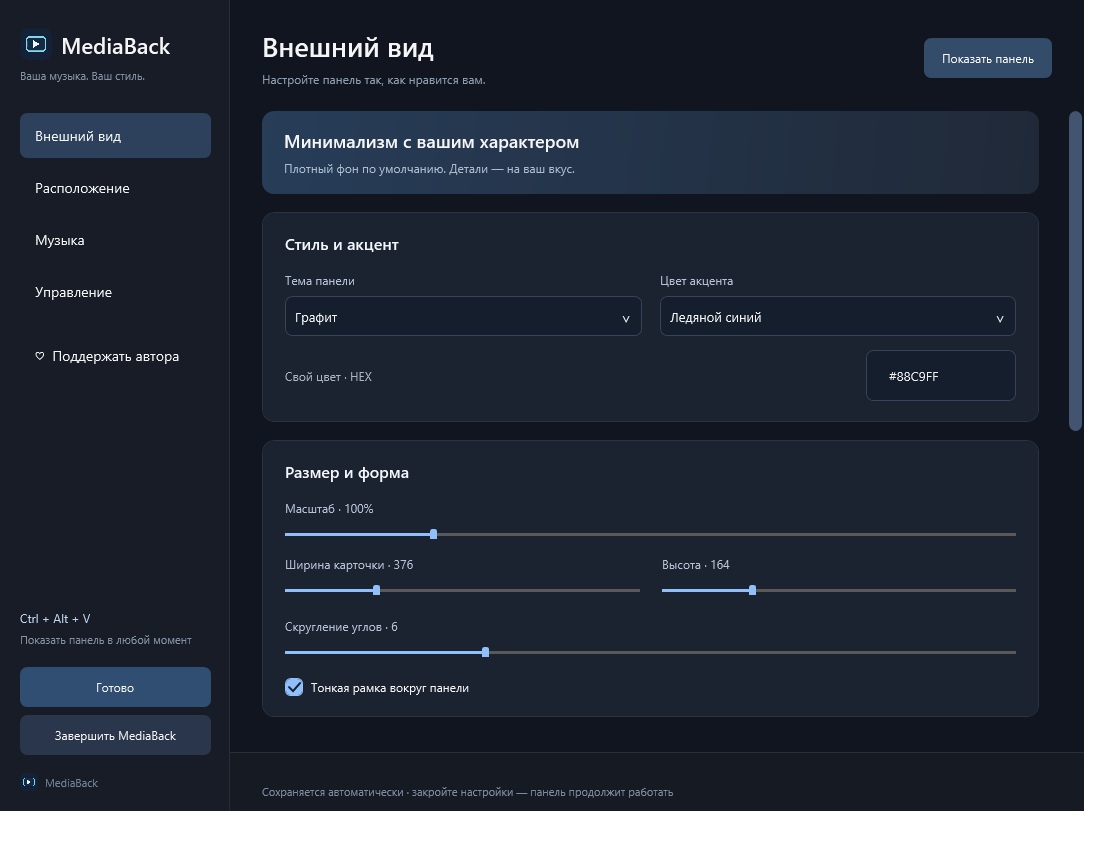
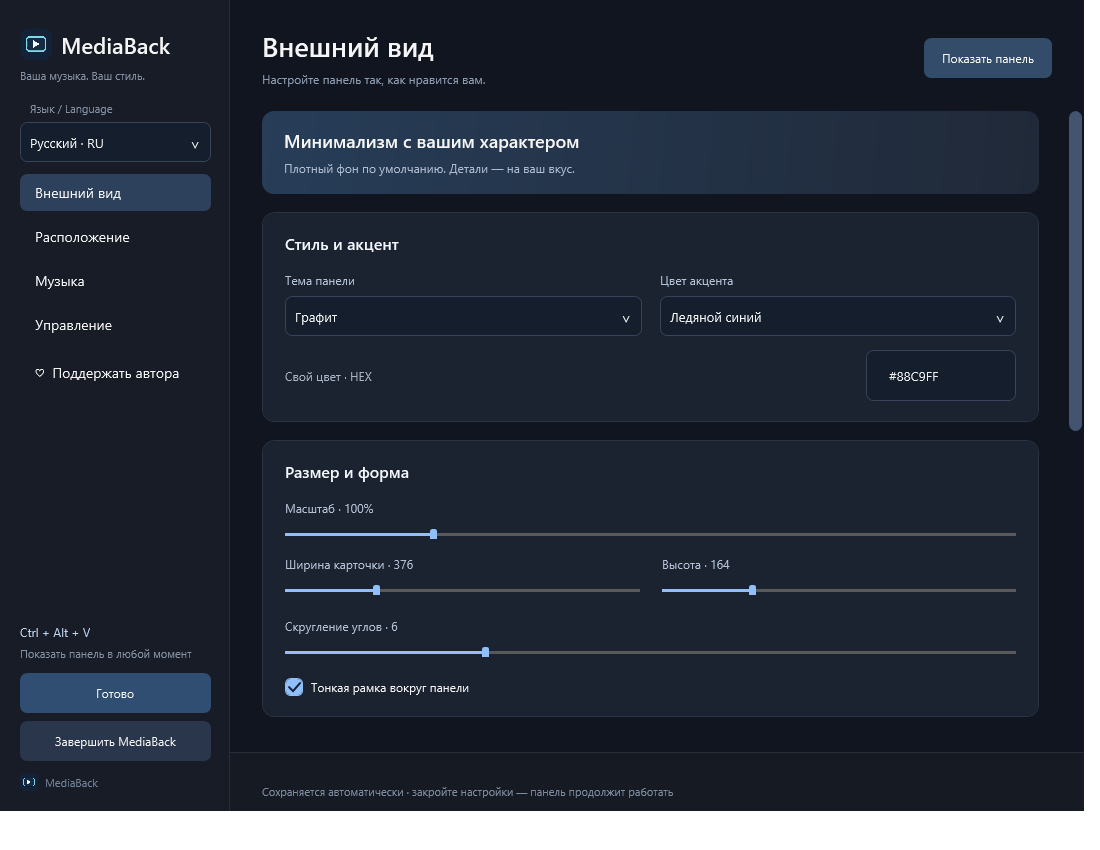
Prepare 0.4.2 release guide in RU and EN

Changed region(s): [[0.0, 0.1224, 0.2164, 0.4588], [0.0, 0.7035, 0.1855, 0.9176]]

diff --git a/README.md b/README.md
@@ -2,65 +2,132 @@
 
 # MediaBack
 
-**Громкость и музыка снова под рукой.** Бесплатная панель для Windows 11 в духе Windows 10: переключайте треки, меняйте громкость и настройте внешний вид под себя.
+**Громкость и музыка снова под рукой. / Your volume and music, back within reach.**
 
-**Your volume and music, back within reach.** A free Windows 10-style volume and media flyout for **Windows 11 x64**. Control compatible media players, switch tracks without leaving a borderless game, and customize the position, themes, background and hotkeys. Close the settings and MediaBack keeps running in the background, with an optional tray icon. Requires a player that supports Windows Media Session; exclusive fullscreen support is limited.
+Бесплатная панель громкости и музыки в стиле Windows 10 для **Windows 11 x64**. Настройте один раз — панель продолжит работать в фоне после закрытия настроек.
 
-### [↓ Скачать / Download MediaBack 0.4.1 beta — Windows 11 x64 · MSI](https://github.com/pmewax/MediaBack/releases/download/v0.4.1-beta/MediaBack-Setup.msi)
+A free Windows 10-style volume and media flyout for **Windows 11 x64**. Set it up once, close the settings, and keep your music controls within reach.
 
-[Все выпуски](https://github.com/pmewax/MediaBack/releases) · [♡ Поддержать автора](DONATIONS.md) · [Сообщить об ошибке](https://github.com/pmewax/MediaBack/issues)
+### [↓ Скачать / Download 0.4.2 beta · Windows 11 x64 · MSI](https://github.com/pmewax/MediaBack/releases/download/v0.4.2-beta/MediaBack-Setup.msi)
 
-![Панель громкости и музыки](overlay-preview.png)
+[Что нового / Release notes](https://github.com/pmewax/MediaBack/releases/tag/v0.4.2-beta) · [Все выпуски / All releases](https://github.com/pmewax/MediaBack/releases) · [♡ Поддержать / Support](DONATIONS.md) · [Ошибки / Issues](https://github.com/pmewax/MediaBack/issues)
 
-## Что умеет
+![MediaBack volume and media flyout](overlay-preview.png)
 
-- Показывает трек, исполнителя, обложку и кнопки плеера из Windows Media Session.
-- Позволяет закрепить музыкальный источник, чтобы игра не забирала управление.
-- Появляется по клавишам громкости и поддерживаемым аппаратным регуляторам. Изменение ползунка в микшере Windows не вызывает панель.
-- Настраивает положение, монитор, масштаб, цвет, прозрачность, собственный фон и плавное скрытие.
-- Поддерживает собственные глобальные сочетания и выключатель каждой команды.
-- Работает после закрытия настроек, в том числе без значка в трее.
-- Показывает название сайта у браузерного источника, когда его удаётся определить. Функцию можно выключить.
+[Русский](#русский) · [English](#english)
 
-![Настройки MediaBack](settings-preview.png)
+## Русский
 
-## Установка и использование
+### Новое в 0.4.2
 
-1. Скачайте **MediaBack-Setup.msi** по кнопке выше. Автоматические архивы GitHub «Source code» содержат только материалы этой страницы.
-2. Откройте MSI, настройте панель и закройте настройки: MediaBack продолжит работать в фоне.
-3. Нажмите клавишу громкости или **Ctrl + Alt + V**, чтобы показать панель. Сочетания меняются в разделе «Управление».
-4. Для повторной настройки запустите **Пуск → MediaBack**. Кнопка «Завершить MediaBack» полностью останавливает программу.
+- **RU / EN:** мгновенная смена языка вверху бокового меню, с сохранением выбора. Переведены настройки, подсказки, трей, кадрирование и диалоги поддержки.
+- **Курсор в игре:** стрелка при наведении на панель, если игра скрыла свободный указатель. Для игр с заблокированной мышью добавлен режим **Ctrl + Alt + M**. Панель временно получает фокус; **Esc**, повторное сочетание или щелчок снаружи завершают режим.
+- **Плавный индикатор громкости:** короткое сглаживание без задержки изменения звука. При перетаскивании ползунок следует за мышью напрямую. Плавность можно выключить.
+- **Аккуратнее настройки:** все пункты бокового меню доступны при минимальном размере окна.
 
-Установка для текущего пользователя: `%LOCALAPPDATA%\Programs\MediaBack`. .NET включён в пакет. MSI добавляет автозапуск при входе в Windows; его можно выключить в настройках приложения или Windows. Настройки сохраняются автоматически.
+### Возможности
 
-## Как вернуть стандартную панель Windows 11
+- Трек, исполнитель, обложка и кнопки управления из Windows Media Session.
+- Закрепление музыкального источника, чтобы игра не перехватывала управление плеером.
+- Показ по клавишам громкости и поддерживаемым аппаратным регуляторам. Ползунок микшера Windows не вызывает панель.
+- Положение, монитор, масштаб, темы, акцент, прозрачность, собственный фон с кадрированием и плавное скрытие.
+- Свои глобальные сочетания, выключатель всех быстрых команд и каждой команды отдельно.
+- Работа в фоне, автозапуск и необязательный значок в трее.
+- Название сайта у браузерного источника, когда его удаётся определить; отображение можно отключить.
+
+![Настройки MediaBack на русском](settings-preview.png)
+
+### Установка и обновление
+
+1. Скачайте **MediaBack-Setup.msi** по кнопке выше. Архивы GitHub **Source code** содержат материалы репозитория, а не приложение.
+2. Запустите MSI. Для обновления с 0.4.1 используйте новый MSI: сохранение настроек проверено.
+3. Выберите язык и внешний вид, затем закройте настройки — панель продолжит работать.
+4. Клавиша громкости или **Ctrl + Alt + V** показывает обычную панель без переключения активного окна.
+5. Для повторной настройки: **Пуск → MediaBack**. Для полной остановки: **Завершить MediaBack** в настройках.
+
+Установка для текущего пользователя: `%LOCALAPPDATA%\Programs\MediaBack`. .NET включён в пакет. MSI добавляет автозапуск при входе в Windows; его можно выключить в приложении или Windows. Настройки сохраняются автоматически. Обновления скачиваются вручную из [Releases](https://github.com/pmewax/MediaBack/releases).
+
+### Если игра скрыла курсор
+
+Если указатель свободно двигается, наведите его на панель. Если игра удерживает мышь, нажмите **Ctrl + Alt + M**, переключите трек и нажмите **Esc**, чтобы вернуться к игре. Сочетания меняются или отключаются в **Управление → Быстрые команды**. Курсор и сглаживание настраиваются в **Управление → Курсор и игры**.
+
+Используйте оконный режим или без рамки. Поведение зависит от игры: режим проверен с тестовым окном со скрытым курсором; прямая проверка в Roblox не проводилась. Эксклюзивный полный экран и защищённые окна могут ограничивать работу панели. Приложение не внедряется в игры.
+
+### Как вернуть стандартную панель Windows 11
 
 **Параметры → Приложения → Установленные приложения → MediaBack → Удалить**, либо **Пуск → MediaBack → Удалить MediaBack**.
 
-Удаление завершает процесс и убирает приложение, ярлыки и автозапуск. MediaBack не заменяет системные файлы Windows: стандартная обработка клавиш возвращается после завершения приложения. Пользовательские настройки и фоны остаются в `%LOCALAPPDATA%\MediaBack`; при необходимости удалите эту папку отдельно.
+Удаление останавливает приложение и убирает его файлы, ярлыки и автозапуск. Системные файлы Windows не заменяются: стандартная обработка клавиш возвращается после завершения MediaBack. Настройки и фоны остаются в `%LOCALAPPDATA%\MediaBack`; при необходимости удалите эту папку отдельно.
 
-## Совместимость и ограничения бета-версии
+### Совместимость, безопасность и приватность
 
-Windows 11 **x64**. Плеер должен предоставлять Windows Media Session: один лишь звук не означает наличие управляемой медиасессии. Совместимость зависит от приложения и его настроек. Название сайта у фоновой вкладки определяется не всегда.
+Плеер должен поддерживать **Windows Media Session**: одного воспроизведения звука недостаточно. Совместимость зависит от приложения; название сайта определяется не всегда. Не проверены все гарнитуры, регуляторы, конфигурации мониторов и игры. Это бета-версия.
 
-Для игр рекомендуется оконный режим без рамки. Эксклюзивный полный экран, защищённые окна и некоторые драйверы устройств могут ограничивать показ панели или перехват медиаклавиш. Все модели гарнитур и регуляторов не проверены.
+MSI **не подписан сертификатом издателя**. Windows может показать предупреждение: проверяйте источник и SHA-256 из релиза, не отключайте защиту Windows. 169 автоматических проверок прошли; Microsoft Defender не обнаружил угроз в финальном MSI. Это не заменяет независимый аудит. [Проверки и ограничения](SECURITY.md).
 
-Программа потребляет память и процессорное время; нулевая нагрузка не обещается. Обновления скачиваются вручную из [Releases](https://github.com/pmewax/MediaBack/releases).
+Приложение работает локально, без учётной записи, рекламы, телеметрии и передачи музыки на сервер. Использует Windows Media Session и Core Audio. [Приватность](PRIVACY.md). Программа использует память и процессорное время; нулевая нагрузка не обещается.
 
-## Безопасность и приватность
+### ♡ Поддержать автора
 
-MSI **пока не имеет цифровой подписи издателя**; Windows может показать предупреждение о неизвестном издателе. Проверяйте источник и контрольную сумму из релиза. Не отключайте защиту Windows ради установки.
+Все функции бесплатны. Если MediaBack помогает каждый день, можно поддержать развитие добровольным донатом: **[монеты, сети и адреса →](DONATIONS.md)**. Те же адреса и QR доступны в настройках. Спасибо за поддержку, идеи и отзывы!
 
-Приложение работает локально: нет учётной записи, рекламы, телеметрии или загрузки музыки на сервер. Для панели используются Windows Media Session и Core Audio. [Подробнее о данных](PRIVACY.md) · [Проверки и ограничения](SECURITY.md).
+## English
 
-## ♡ Поддержать автора
+### What's new in 0.4.2
 
-Все функции бесплатны. Если MediaBack помогает каждый день, можно поддержать развитие добровольным донатом: **[монеты, сети и адреса →](DONATIONS.md)**. Те же адреса и QR доступны в настройках.
+- **RU / EN:** switch languages instantly at the top of the sidebar; your choice is saved. Settings, tooltips, tray menus, cropping and support dialogs are translated.
+- **In-game cursor:** an arrow appears over the flyout when a game hides a freely moving pointer. For games that lock the mouse, **Ctrl + Alt + M** temporarily activates the panel. **Esc**, the same shortcut or an outside click ends interaction mode.
+- **Smoother volume indicator:** a short visual transition with immediate audio changes. Direct slider dragging stays responsive. Smoothing can be disabled.
+- **Settings layout:** all sidebar entries remain accessible at the minimum window size.
 
-Спасибо за поддержку, идеи и сообщения об ошибках!
+### Features
 
-## Автор и права
+- Track title, artist, artwork and playback controls through Windows Media Session.
+- Pin a music source so another media session does not take over your controls.
+- Show the flyout using volume keys and supported hardware controls; the Windows volume mixer does not trigger it.
+- Customize position, monitor, scale, theme, accent, opacity, a cropped background image and fade-out.
+- Assign global shortcuts, enable or disable each command, or disable all quick commands.
+- Run in the background with optional startup and tray icon.
+- Display the website name for browser media when it can be identified; this is optional.
 
-Автор: [pmewax](https://github.com/pmewax). MediaBack распространяется как бесплатное приложение с закрытыми исходниками. Этот репозиторий содержит описание, изображения и установочные выпуски; исходного кода приложения здесь нет.
+![MediaBack settings in English](settings-en.png)
 
-[Условия использования](LICENSE.txt) · [Лицензии сторонних компонентов](THIRD-PARTY-NOTICES.txt). Неофициальный проект, не связан с Microsoft, Spotify, SoundCloud или другими упомянутыми сервисами. Изображения интерфейса используют демонстрационные данные.
+### Install or update
+
+1. Download **MediaBack-Setup.msi** using the link above. GitHub's automatic **Source code** archives contain repository materials, not the application.
+2. Run the MSI. Updating from 0.4.1 with existing settings has been tested.
+3. Choose **English · EN** at the top of the sidebar and customize the flyout. Closing settings keeps MediaBack running.
+4. Press a volume key or **Ctrl + Alt + V** to show the regular flyout without changing the active window.
+5. Reopen **Start → MediaBack** to configure it later. Use **Quit MediaBack** in settings to stop it completely.
+
+Installed for the current user in `%LOCALAPPDATA%\Programs\MediaBack`, with .NET included. The MSI enables startup at sign-in; you can disable this in MediaBack or Windows. Settings save automatically. Download updates manually from [Releases](https://github.com/pmewax/MediaBack/releases).
+
+### When a game hides the cursor
+
+If the pointer can move freely, hover over the flyout. If the game locks it, press **Ctrl + Alt + M**, use the media controls, then press **Esc** to return to the game. Change or disable bindings under **Controls → Quick commands**. Cursor and smoothing options are under **Controls → Cursor and games**.
+
+Use windowed or borderless mode. Compatibility depends on the game: interaction mode was tested with a hidden-cursor test window, not directly in Roblox. Exclusive fullscreen and protected windows can restrict the flyout. MediaBack does not inject into games.
+
+### Restore the Windows 11 flyout
+
+Uninstall through **Settings → Apps → Installed apps → MediaBack → Uninstall**, or **Start → MediaBack → Uninstall MediaBack**.
+
+Uninstalling stops the app and removes its program files, shortcuts and startup entry. Windows system files are not replaced; normal volume-key handling returns when MediaBack exits. Your settings and backgrounds remain in `%LOCALAPPDATA%\MediaBack`; remove that folder separately if desired.
+
+### Compatibility, security and privacy
+
+Requires **Windows 11 x64** and a player supporting **Windows Media Session**. Audio playback alone does not provide a controllable session. Website identification is not always possible. Not every headset, hardware dial, monitor configuration or game has been tested. This is a beta release.
+
+The MSI is **not digitally signed by a publisher certificate**. Windows may show a warning. Check the download source and release SHA-256; do not disable Windows protection. 169 automated checks passed and Microsoft Defender found no threats in the final MSI. This is not an independent security audit. [Checks and limitations](SECURITY.md).
+
+MediaBack works locally without an account, ads, telemetry or uploading music. It uses Windows Media Session and Core Audio. [Privacy](PRIVACY.md). It uses memory and CPU time; zero resource usage is not promised.
+
+### ♡ Support the author
+
+All features are free. If MediaBack makes your day a little easier, you can support its development voluntarily: **[coins, networks and addresses →](DONATIONS.md)**. The same addresses and QR codes are available in settings. Thank you for your support, ideas and feedback!
+
+## Автор и права / Author and rights
+
+By [pmewax](https://github.com/pmewax). Бесплатное приложение с закрытыми исходниками / freeware with closed source. This repository contains documentation, screenshots and installable releases; the application's source code is not included.
+
+[Условия / License](LICENSE.txt) · [Сторонние компоненты / Third-party notices](THIRD-PARTY-NOTICES.txt). Неофициальный проект / an unofficial project, not affiliated with Microsoft, Spotify, SoundCloud or other mentioned services. Screenshots use demonstration data.

diff --git a/SECURITY.md b/SECURITY.md
@@ -1,12 +1,29 @@
-# Проверки и безопасность — 0.4.1 beta
+# Проверки и безопасность / Checks and security — 0.4.2 beta
 
-- Финальная сборка приложения: .NET 10.0.13 / WPF, Windows x64, встроенный runtime.
-- 124 автоматические проверки приложения прошли без ошибок. Проверены настройки, выбор медиасессий, жизненный цикл окон, конфликты горячих клавиш, скрытие и восстановление панели, поддержка и переходы между окнами.
-- Все шесть отображаемых вариантов монеты/сети проверены независимым декодером QR; адреса совпадают с каталогом. Переводы и принадлежность кошельков не проверялись.
-- Системные файлы, игры и драйверы не модифицируются. Приложение работает с правами обычного пользователя.
-- Проверены таблицы финального MSI и совпадение файлов внутри его CAB с файлами сборки. Полная установка и удаление 0.4.1 заново не выполнялись; соответствующие сценарии проверялись на предыдущем установщике.
-- MSI не подписан сертификатом издателя. Контрольная сумма SHA-256 опубликована отдельным файлом в релизе.
+## Русский
 
-Результат проверки Microsoft Defender и SHA-256 финального MSI указаны в примечаниях релиза. Антивирусная проверка не гарантирует отсутствие всех возможных угроз или ошибок. Полного независимого аудита не проводилось.
+- Windows x64, WPF / .NET 10.0.13, runtime включён в установщик.
+- **169 автоматических проверок прошли, 0 ошибок.** Проверены настройки, медиасессии, горячие клавиши и их конфликты, скрытие и восстановление панели, поддержка, локализация, курсор и сглаживание громкости.
+- Проверены полнота **221 ключа RU/EN**, совпадение параметров и переключение языка в интерфейсе.
+- Курсор проверен с отдельным тестовым окном, которое скрывает указатель. Проверены явная активация панели, захват мыши, Esc, возврат фокуса и переход в другое окно. Прямая проверка в Roblox не проводилась; совместимость зависит от игры.
+- Проверены таблицы MSI, а также SHA-256 файлов внутри CAB. **Обновление с 0.4.1 до 0.4.2 выполнено успешно**, установленный EXE совпал с проверенной сборкой, файл пользовательских настроек не изменился. Полное удаление и повторная установка 0.4.2 не выполнялись.
+- Microsoft Defender не обнаружил угроз в финальном MSI; код выхода 0. Это не гарантирует отсутствие всех угроз и ошибок. Независимый аудит не проводился.
+- Адреса поддержки не изменены. Ранее все шесть вариантов монеты/сети проверены независимым декодером QR. Принадлежность кошельков и переводы не проверялись.
+- Системные файлы, игры и драйверы не изменяются; внедрения в процессы игр нет. Программа работает с правами обычного пользователя.
+- **MSI не подписан сертификатом издателя.** SHA-256 опубликован в релизе отдельным файлом.
 
-Не проверены все физические HID-устройства, сочетания мониторов и DPI, все версии плееров и полноэкранных игр. Это бета-версия; сообщения об ошибках принимаются в Issues. Не публикуйте там пароли, токены и личные данные. Для первичного сообщения о потенциальной уязвимости укажите краткое описание без рабочих секретов или персональных данных.
+Не проверены все HID-устройства, конфигурации мониторов и DPI, версии плееров и полноэкранные игры. Сообщайте об ошибках через Issues. Не публикуйте пароли, токены, персональные данные или приватные журналы. При сообщении о возможной уязвимости сначала дайте краткое описание без секретов.
+
+## English
+
+- Windows x64, WPF / .NET 10.0.13; runtime included.
+- **169 automated checks passed, 0 failures.** Coverage includes settings, media sessions, shortcuts and conflicts, flyout lifetime, support dialogs, localization, cursor behavior and volume smoothing.
+- **221 RU/EN localization keys** checked for completeness and matching placeholders, alongside live UI language switching.
+- Cursor interaction tested using a dedicated window that hides its pointer. Activation, mouse capture, Esc, focus restoration and switching to another window were checked. Roblox was not tested directly; compatibility varies by game.
+- MSI tables and the SHA-256 of its packaged files were checked. **The 0.4.1 → 0.4.2 upgrade succeeded**; the installed EXE matched the tested build and the settings file remained unchanged. A full uninstall/reinstall of 0.4.2 was not performed.
+- Microsoft Defender found no threats in the final MSI, exit code 0. This does not guarantee the absence of all threats or bugs. No independent security audit has been conducted.
+- Donation addresses are unchanged. All six coin/network combinations were previously decoded independently from their QR images. Wallet ownership and transactions were not verified.
+- No Windows system file replacement, driver modification or game process injection. Runs as a regular user.
+- **The MSI is not signed by a publisher certificate.** A separate SHA-256 file is attached to the release.
+
+Not all HID devices, monitor/DPI configurations, players or fullscreen games have been tested. Report bugs in Issues without passwords, tokens, personal data or private logs. For a potential vulnerability, start with a brief description that contains no secrets.

diff --git a/DONATIONS.md b/DONATIONS.md
@@ -15,3 +15,8 @@
 
 Перед переводом проверьте монету и сеть. Один адрес в разных сетях не делает эти сети взаимозаменяемыми.
 
+## ♡ Support the author
+
+All MediaBack features are free. Donations are optional and help support development. Thank you for your feedback and ideas!
+
+The table above lists the public receiving addresses: native TRX on Tron, and USDT on Ethereum (ERC-20), Tron (TRC-20), Solana (SPL), Polygon and BNB Smart Chain (BEP-20). Choose the correct coin and network before sending; networks are not interchangeable. The same addresses and QR codes are available in the application's settings.
